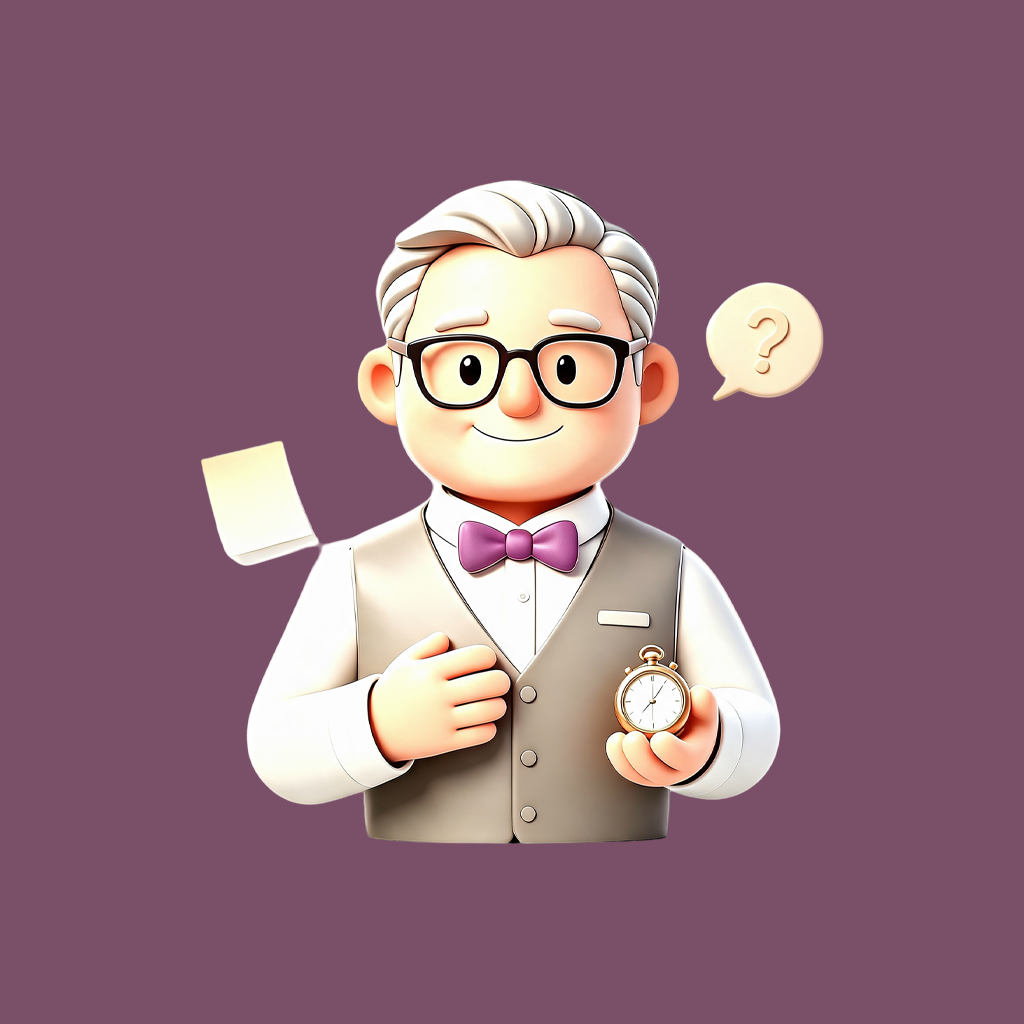
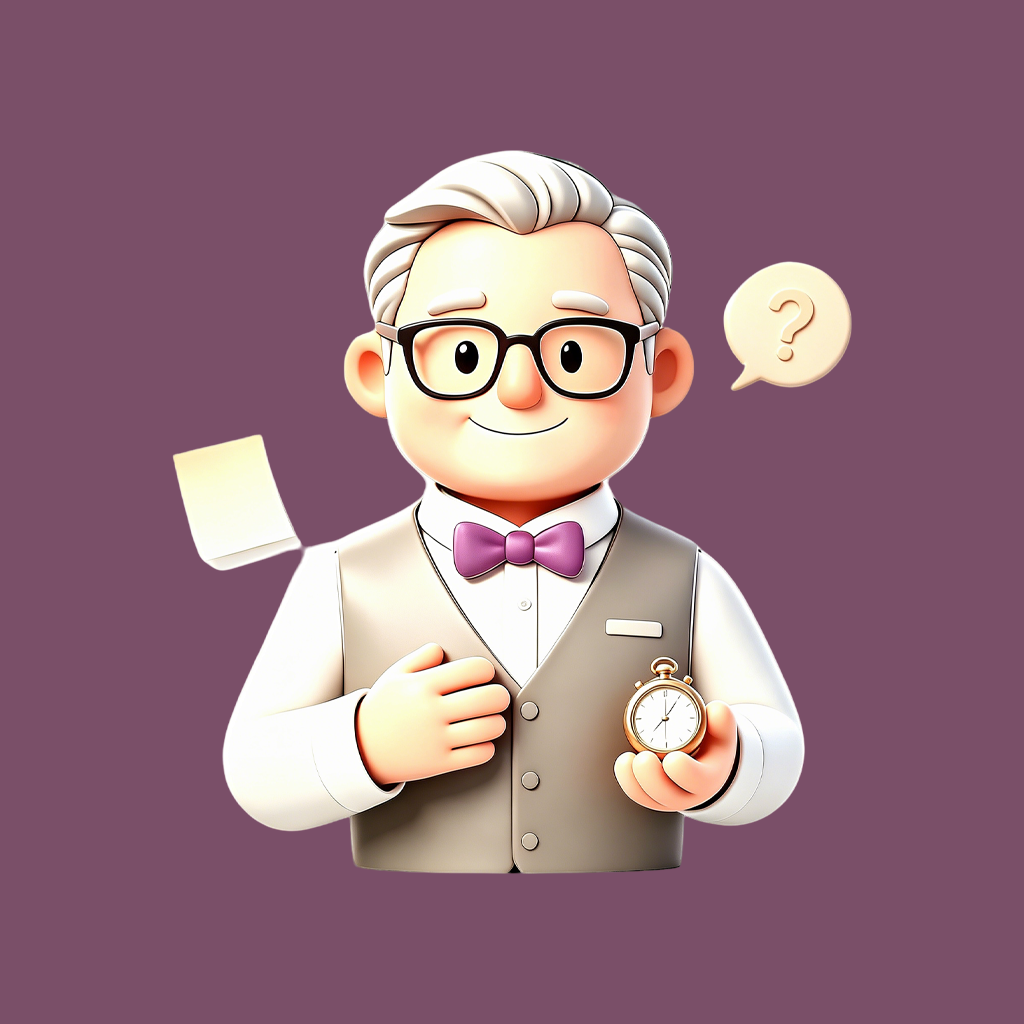
update

Changed region(s): [[0.1562, 0.125, 0.8438, 0.875]]

diff --git a/src/components/home/SpendingDetail.js b/src/components/home/SpendingDetail.js
@@ -1,6 +1,7 @@
-import { useCallback, useMemo, useState } from 'react';
+import { useCallback, useMemo, useRef, useState } from 'react';
 import { Modal, Platform, Pressable, ScrollView, StyleSheet, Text, View } from 'react-native';
 import { Ionicons } from '@expo/vector-icons';
+import { LinearGradient } from 'expo-linear-gradient';
 import { useTranslation } from 'react-i18next';
 import { useTheme } from '../../utils/theme';
 import { useSettingsStore, formatMoney } from '../../store/settings';
@@ -306,6 +307,15 @@ export default function SpendingDetail({ bills = [], billType = 'expense', year:
 
   const hasData = rows.length > 0;
 
+  // ── Overflow / gradient state ──
+  const [bodyContentH, setBodyContentH] = useState(0);
+  const [bodyContainerH, setBodyContainerH] = useState(0);
+  const scrollY = useRef(0);
+  const isOverflow = bodyContentH > bodyContainerH + 4;
+  const isNearBottom = scrollY.current + bodyContainerH >= bodyContentH - 4;
+  const showGradient = isOverflow && !isNearBottom;
+  const [, forceRender] = useState(0); // tiny re-render trigger for scroll-based gradient
+
   function diffText(pct, isNew) {
     if (isNew) return t('home.momNew');
     if (pct == null) return '--';
@@ -370,29 +380,51 @@ export default function SpendingDetail({ bills = [], billType = 'expense', year:
           </View>
 
           {/* Rows */}
-          <ScrollView style={styles.tableBody} nestedScrollEnabled showsVerticalScrollIndicator={false}>
-            {rows.map((row, i) => (
-              <View key={row.cat} style={[styles.tableRow, i < rows.length - 1 && { borderBottomColor: Colors.cardBorder, borderBottomWidth: 1 }]}>
-                <View style={styles.tdCategory}>
-                  <View style={[styles.dot, { backgroundColor: PALETTE[i % PALETTE.length] }]} />
-                  <Text numberOfLines={1} style={[styles.tdCategoryText, { color: Colors.textPrimary, fontFamily: Fonts.regular }]}>
-                    {row.label}
+          <View style={styles.tableBodyWrapper}>
+            <ScrollView
+              style={styles.tableBody}
+              nestedScrollEnabled
+              showsVerticalScrollIndicator={false}
+              onContentSizeChange={(w, h) => setBodyContentH(h)}
+              onLayout={(e) => setBodyContainerH(e.nativeEvent.layout.height)}
+              onScroll={(e) => {
+                const prevNear = scrollY.current + bodyContainerH >= bodyContentH - 4;
+                scrollY.current = e.nativeEvent.contentOffset.y;
+                const nextNear = scrollY.current + bodyContainerH >= bodyContentH - 4;
+                if (prevNear !== nextNear) forceRender((n) => n + 1);
+              }}
+              scrollEventThrottle={16}
+            >
+              {rows.map((row, i) => (
+                <View key={row.cat} style={[styles.tableRow, i < rows.length - 1 && { borderBottomColor: Colors.cardBorder, borderBottomWidth: 1 }]}>
+                  <View style={styles.tdCategory}>
+                    <View style={[styles.dot, { backgroundColor: PALETTE[i % PALETTE.length] }]} />
+                    <Text numberOfLines={1} style={[styles.tdCategoryText, { color: Colors.textPrimary, fontFamily: Fonts.regular }]}>
+                      {row.label}
+                    </Text>
+                  </View>
+                  <Text style={[styles.tdAmount, { color: Colors.textPrimary, fontFamily: Fonts.bold }]}>
+                    {formatMoney(row.amount, currency)}
                   </Text>
+                  <View style={styles.tdChange}>
+                    <Text style={[styles.diffLine, { color: diffColor(row.yoyPct, row.yoyIsNew), fontFamily: Fonts.bold }]}>
+                      {t('spendingDetail.yoy')} {diffText(row.yoyPct, row.yoyIsNew)}
+                    </Text>
+                    <Text style={[styles.diffLine, { color: diffColor(row.momPct, row.momIsNew), fontFamily: Fonts.bold }]}>
+                      {t('spendingDetail.mom')} {diffText(row.momPct, row.momIsNew)}
+                    </Text>
+                  </View>
                 </View>
-                <Text style={[styles.tdAmount, { color: Colors.textPrimary, fontFamily: Fonts.bold }]}>
-                  {formatMoney(row.amount, currency)}
-                </Text>
-                <View style={styles.tdChange}>
-                  <Text style={[styles.diffLine, { color: diffColor(row.yoyPct, row.yoyIsNew), fontFamily: Fonts.bold }]}>
-                    {t('spendingDetail.yoy')} {diffText(row.yoyPct, row.yoyIsNew)}
-                  </Text>
-                  <Text style={[styles.diffLine, { color: diffColor(row.momPct, row.momIsNew), fontFamily: Fonts.bold }]}>
-                    {t('spendingDetail.mom')} {diffText(row.momPct, row.momIsNew)}
-                  </Text>
-                </View>
-              </View>
-            ))}
-          </ScrollView>
+              ))}
+            </ScrollView>
+            {showGradient && (
+              <LinearGradient
+                colors={[Colors.card + '00', Colors.card]}
+                style={styles.gradientOverlay}
+                pointerEvents="none"
+              />
+            )}
+          </View>
 
           {/* Summary */}
           <View style={[styles.summaryRow, { borderTopColor: Colors.cardBorder, backgroundColor: Colors.iconBg }]}>
@@ -540,6 +572,16 @@ const styles = StyleSheet.create({
   },
   tableBody: {
     maxHeight: 320,
+  },
+  tableBodyWrapper: {
+    position: 'relative',
+  },
+  gradientOverlay: {
+    position: 'absolute',
+    bottom: 0,
+    left: 0,
+    right: 0,
+    height: 36,
   },
   tableRow: {
     flexDirection: 'row',
